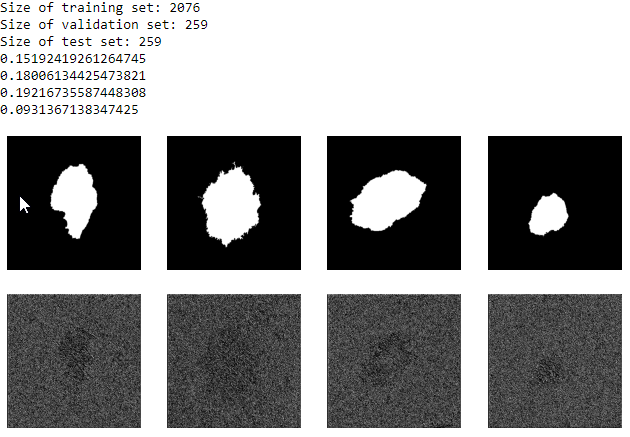
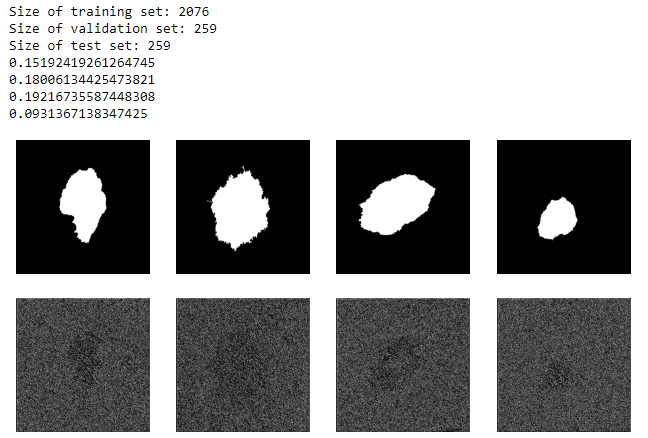
readme changes and unet changes

diff --git a/recognition/44672139_topic_recognition/helper.py b/recognition/44672139_topic_recognition/helper.py
@@ -3,59 +3,71 @@ import matplotlib.pyplot as plt
 import numpy as np
 import glob
 
+
 def shuffle_map_data(images, masks):
     data = tf.data.Dataset.from_tensor_slices((images, masks))
+    #shuffling data
     data = data.shuffle(len(images))
+    #we apply transformation to our dataset
     data = data.map(map_fn)
     return data
 
-
 def split_data(files, masks, ratio1, ratio2):
     num_images = len(masks)
-
+    
+    #The number of images in our validation and test set
     val_test_size = int(num_images*ratio1)
-
+    
+    #array of files that contains the validation and test images
     val_test_images = files[:val_test_size]
+    #array of files for the training images
     train_images = files[val_test_size:]
+    #array of files that contains the validation and test maks
     val_test_masks = masks[:val_test_size]
+    #array of files for the masks images
     train_masks = masks[val_test_size:]
 
+    #The number that will split validation and test
     split = int(len(val_test_masks)*ratio2)
+    #perform same as above except on the smaller validation and test
     val_masks = val_test_masks[split:]
     val_images = val_test_images[split:]
     test_masks = val_test_masks[:split]
     test_images = val_test_images[:split]
     return train_images, train_masks, val_masks, val_images, test_masks, test_images
 
-
+#Converting image and mask files to data ararys
 def map_fn(image_fp, mask_fp):
+    #reading data from file and decoding
     image = tf.io.read_file(image_fp)
     image = tf.image.decode_jpeg(image, channels=3)
+    #rezising all the images to (512, 512)
     image = tf.image.resize(image, (512, 512))
     image = tf.cast(image, tf.float32) /255.0
     
+    #reading data from file and decoding
     mask = tf.io.read_file(mask_fp)
     mask = tf.image.decode_png(mask, channels=1)
+    #rezising all the masks to (512, 512)
     mask = tf.image.resize(mask, (512, 512))
+    #one hot encoding
     mask = mask == [0, 255]
     mask = tf.cast(mask, tf.uint8)
     return image, mask
 
-def display(display_list):
-    plt.figure(figsize = (10, 10))
-    for i in range(len(display_list)):
-        plt.subplot(1, len(display_list), i+1)
-        plt.imshow(display_list[i], cmap='gray')
-        plt.axis('off')
-        plt.show()
-    
+#metrics used for model, smooth is used so we don't have a value of 0 for overlap
 def dice_coef(true, pred, smooth=1):
+    #true mask
     true1 = tf.keras.backend.flatten(true)
+    #prediction mask
     pred1 = tf.keras.backend.flatten(pred)
+    #Pixels that overlap and are equal in both images
     overlap = tf.keras.backend.sum(true1 * pred1)+smooth
+    #Total number of pixels in the image
     totalPixels = (tf.keras.backend.sum(true1) + tf.keras.backend.sum(pred1))+smooth
     return (2 * overlap) / totalPixels
 
+#convolution operation in unet with (3, 3) filters
 def convolution(inputs, filters):
     c1 = tf.keras.layers.Conv2D(filters, (3, 3), padding='same', activation='relu')(inputs)
     return tf.keras.layers.Conv2D(filters, (3, 3), padding='same', activation='relu')(c1)
@@ -63,7 +75,10 @@ def convolution(inputs, filters):
 def unet():
     inputs = tf.keras.layers.Input(shape=(512, 512, 3))
     
+    
+    #Contraction path
     c1 = convolution(inputs, 4)
+    
     
     c2 = tf.keras.layers.MaxPooling2D()(c1)
     c2 = convolution(c2, 8)
@@ -77,22 +92,24 @@ def unet():
     c5 = tf.keras.layers.MaxPooling2D()(c4)
     c5 = convolution(c5, 64)
     
-    c6 = tf.keras.layers.Conv2DTranspose(32, (2, 2), strides=(2, 2), padding='same')(c5)
+    #Expanding path
+    c6 = tf.keras.layers.Conv2DTranspose(32, (2, 2), padding='same')(c5)
     c6 = tf.keras.layers.concatenate([c6, c4])
     c6 = convolution(c6, 32)
     
-    c7 = tf.keras.layers.Conv2DTranspose(16, (2, 2), strides=(2, 2), padding='same')(c6)
+    c7 = tf.keras.layers.Conv2DTranspose(16, (2, 2), padding='same')(c6)
     c7 = tf.keras.layers.concatenate([c7, c3])
     c7 = convolution(c7, 16)
 
-    c8 = tf.keras.layers.Conv2DTranspose(8, (2, 2), strides=(2, 2), padding='same')(c7)
+    c8 = tf.keras.layers.Conv2DTranspose(8, (2, 2), padding='same')(c7)
     c8 = tf.keras.layers.concatenate([c8, c2])
     c8 = convolution(c8, 8)
 
-    c9 = tf.keras.layers.Conv2DTranspose(4, (2, 2), strides=(2, 2), padding='same')(c8)
+    c9 = tf.keras.layers.Conv2DTranspose(4, (2, 2), padding='same')(c8)
     c9 = tf.keras.layers.concatenate([c9, c1])
     c9 = convolution(c9, 4)
-
+    
+    #we use sigmoid because only black and white
     outputs = tf.keras.layers.Conv2D(2, (1,1), activation='sigmoid')(c9)
     
     return tf.keras.Model(inputs=inputs, outputs=outputs)

diff --git a/recognition/44672139_topic_recognition/README.md b/recognition/44672139_topic_recognition/README.md
@@ -4,8 +4,25 @@
 ### Dependencies
 * Tensorflow-gpu 2.1
 * Matplotlib
+
 ### Description
-The aim of the project is to successfully perform lesion segmentation on the ISIC dataset. Classifying each pixel either black or white, the following algorithm achieves this by using Unet. Images are first resized so they are 512x512. We pick this particular size because any smaller and completely black images would return a high dice coefficient which we don't want. We then input the images into the Unet where we use 
+The aim of the project is to successfully perform lesion segmentation on the ISIC dataset. Classifying each pixel either black or white, the following algorithm achieves this by using Unet. Images are first resized so they are 512x512 in dimension. This particular size was picked because any smaller and completely black images would return a high dice coefficient which we don't want. The images are processed with one-hot encoding and the model is trained using Unet with the processed images as input. 
+
+80% of the dataset was used for training and 10% for both validation and test. A large percentage was used due to the fact there are only around 3K images in the dataset.
+
+Below are the results of the model before training compared to the ground truth, the decimal values corresponds to the dice coefficient for each mask starting from the left, as can be seen before training it is relatively low with values ranging from 0 to 0.2.
+![beforetrain](/resources/beforetrain.png)
 
 ### Training and Results
-We train our model over 6 epochs, where we achieve a dice coefficient of 0.8153 over our validation data. We predict and 
+The model is trained over 6 epochs, where a dice coefficient of 0.8153 is achieved over the validation data. 
+Here below the predictions on the test data, we can see that we achieve better results than before training with some dice coefficients being in the 0.9 values.
+![training](/resources/predictions.png)
+
+The average dice coefficient when using the model to predict the mask on all the test data images is 0.82. 
+
+#### Plot of the graph
+The results of the dice coefficient over 6 epochs
+
+
+![results](/resources/plot.png)
+
